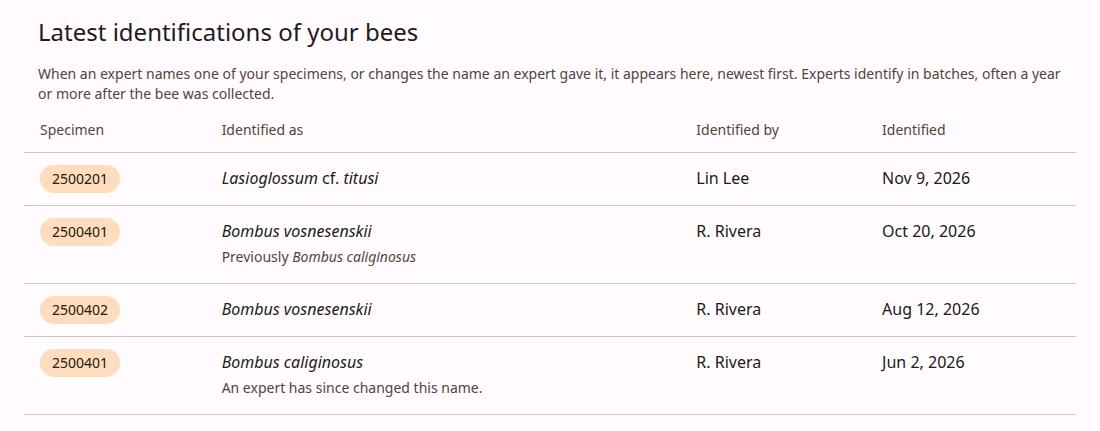
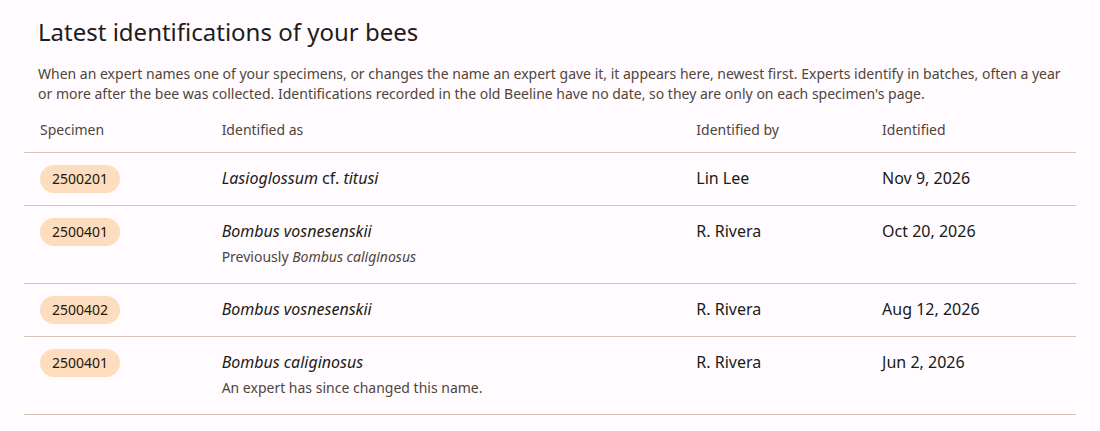
Credit one determination's person and name together; say why old names are missing
From the CodeRabbit review. The determiner's id and name came from two
separate windows, so a stretch could credit one person's id beside another's
name; both now come from the first determination that names anybody. And a
volunteer whose bees were identified only in the old Beeline, which kept no
dates, was told no expert had identified any of them: the intro now says the
old Beeline's identifications are on each specimen's page, and the empty
state says there are no dated ones.

Changed region(s): [[0.2473, 0.2111, 0.8345, 0.2413]]

diff --git a/src/app/messages/en.ts b/src/app/messages/en.ts
@@ -576,8 +576,8 @@ export const en = {
     identifications: {
       heading: "Latest identifications of your bees",
       intro:
-        "When an expert names one of your specimens, or changes the name an expert gave it, it appears here, newest first. Experts identify in batches, often a year or more after the bee was collected.",
-      empty: "No expert has identified any of your specimens yet.",
+        "When an expert names one of your specimens, or changes the name an expert gave it, it appears here, newest first. Experts identify in batches, often a year or more after the bee was collected. Identifications recorded in the old Beeline have no date, so they are only on each specimen's page.",
+      empty: "No dated identifications of your specimens yet.",
       col: { specimen: "Specimen", name: "Identified as", by: "Identified by", when: "Identified" },
       specimen: (sampleNumber: string, specimenNumber: number) => `Sample ${sampleNumber}, specimen ${specimenNumber}`,
       previously: "Previously",

diff --git a/test/expert-identification.test.ts b/test/expert-identification.test.ts
@@ -112,6 +112,14 @@ describe("expert_identification", () => {
     ]);
   });
 
+  it("credits the person and the name from the same determination", async () => {
+    const { conn, spec, expert, lin } = await fixture();
+    const s = await spec("26000101");
+    await expert(s, "Bombus vosnesenskii", "ecdysis_import", "2026-06-02 08:00:00Z", { enteredAt: "2026-06-02 08:00:00", byName: "R. Rivera" });
+    await expert(s, "Bombus vosnesenskii", "in_app", "2026-11-05 09:00:00Z", { by: lin });
+    expect(await rows(conn, `SELECT determiner_id, determiner_name FROM expert_identification WHERE specimen_id = ${s}`)).toEqual([[null, "R. Rivera"]]);
+  });
+
   it("leaves a name only the old Beeline held undated, since it kept no dates", async () => {
     const { conn, spec, expert } = await fixture();
     const s = await spec("26000103");
